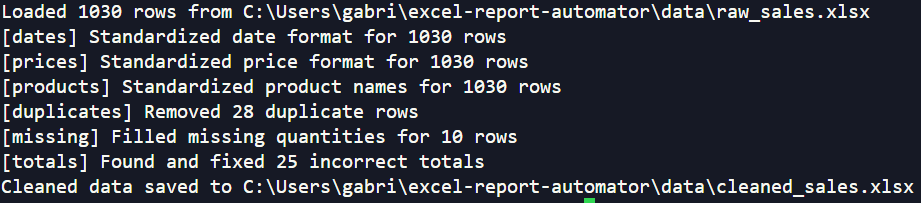
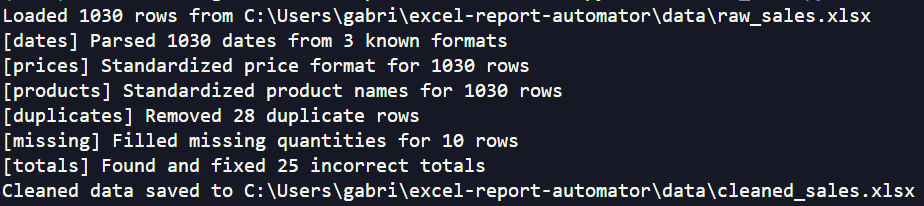
Add formatted Excel report, README and final screenshots

Changed region(s): [[0.0, 0.0, 0.9425, 0.8571], [0.0, 0.8867, 1.0, 1.0]]

diff --git a/src/build_report.py b/src/build_report.py
@@ -1,0 +1,126 @@
+import pandas as pd
+from pathlib import Path
+from openpyxl.chart import BarChart, Reference
+from openpyxl.styles import Alignment, Font, PatternFill
+from openpyxl.utils import get_column_letter
+
+DATA_DIR = Path(__file__).resolve().parent.parent / "data"
+OUTPUT_DIR = Path(__file__).resolve().parent.parent / "output"
+
+HEADER_FILL = PatternFill("solid", fgColor="1F4E78")
+HEADER_FONT = Font(color="FFFFFF", bold=True)
+CURRENCY_FMT = '"$"#,##0.00'
+
+def load_clean_data():
+    """Load the cleaned sales data (fails clearly if cleaning wasn't run)."""
+    file_path = DATA_DIR / "cleaned_sales.xlsx"
+    if not file_path.exists():
+        raise FileNotFoundError(f"Run clean_data.py first — missing: {file_path}")
+    df = pd.read_excel(file_path)
+    df["Date"] = pd.to_datetime(df["Date"])
+    return df
+
+def aggregate_by(df, column):
+    """Revenue/Units/Orders grouped by any column, best sellers first."""
+    return (df.groupby(column)
+              .agg(Revenue=("Total", "sum"),
+                   Units=("Quantity", "sum"),
+                   Orders=("Total", "count"))
+              .sort_values("Revenue", ascending=False)
+              .reset_index())
+
+def monthly_trend(df):
+    """Revenue and Orders per month, in chronological order."""
+    df = df.copy()
+    df["Month"] = df["Date"].dt.to_period("M")
+    return (df.groupby("Month")
+              .agg(Revenue=("Total", "sum"),
+                   Orders=("Total", "count"))
+              .sort_values("Month")
+              .reset_index())
+
+def compute_kpis(df):
+    """Executive summary numbers as a dict {label: value}."""
+    return {
+        "Total Revenue": round(df["Total"].sum(), 2),
+        "Total Units": df["Quantity"].sum(),
+        "Total Orders": df["Total"].count(),
+        "Average Order Value": round(df["Total"].mean(), 2),
+        "Top Product": df.groupby("Product")["Total"].sum().idxmax(),
+        "Top Region": df.groupby("Region")["Total"].sum().idxmax(),
+        "Top Seller": df.groupby("Seller")["Total"].sum().idxmax(),
+        "Period": f"{df['Date'].min().strftime('%Y-%m-%d')} to {df['Date'].max().strftime('%Y-%m-%d')}"
+    }
+
+def _format_sheet(ws, currency_cols=()):
+    """Style header row, auto-fit column widths, apply currency format."""
+    for cell in ws[1]:
+        cell.fill = HEADER_FILL
+        cell.font = HEADER_FONT
+        cell.alignment = Alignment(horizontal="center")
+    for col_idx in range(1, ws.max_column + 1):
+        letter = get_column_letter(col_idx)
+        width = max(len(str(c.value)) for c in ws[letter] if c.value is not None)
+        ws.column_dimensions[letter].width = max(12, width + 2)
+        if letter in currency_cols:
+            for cell in ws[letter][1:]:
+                cell.number_format = CURRENCY_FMT
+
+
+def build_report(df, kpis, by_product, by_region, by_seller, by_month):
+    """Write the formatted multi-sheet Excel report with an embedded chart."""
+    OUTPUT_DIR.mkdir(exist_ok=True)
+    path = OUTPUT_DIR / "sales_report.xlsx"
+    with pd.ExcelWriter(path) as writer:
+        pd.DataFrame(list(kpis.items()), columns=["KPI", "Value"]).to_excel(
+            writer, sheet_name="Summary", index=False)
+        by_product.to_excel(writer, sheet_name="By Product", index=False)
+        by_region.to_excel(writer, sheet_name="By Region", index=False)
+        by_seller.to_excel(writer, sheet_name="By Seller", index=False)
+        by_month.to_excel(writer, sheet_name="Monthly", index=False)
+
+        wb = writer.book
+        _format_sheet(wb["Summary"])
+        ws_summary = wb["Summary"]
+        MONEY_KPIS = ("Total Revenue", "Average Order Value")
+        COUNT_KPIS = ("Total Units", "Total Orders")
+        for label_cell, value_cell in ws_summary.iter_rows(min_row=2, max_col=2):
+            if label_cell.value in MONEY_KPIS:
+                value_cell.number_format = CURRENCY_FMT
+            elif label_cell.value in COUNT_KPIS:
+                value_cell.number_format = "#,##0"
+        for name in ("By Product", "By Region", "By Seller", "Monthly"):
+            _format_sheet(wb[name], currency_cols=("B",))
+
+        ws = wb["Monthly"]
+        chart = BarChart()
+        chart.title = "Monthly Revenue"
+        chart.y_axis.title = "Revenue"
+        chart.x_axis.title = "Month"
+        data = Reference(ws, min_col=2, min_row=1, max_row=ws.max_row)
+        cats = Reference(ws, min_col=1, min_row=2, max_row=ws.max_row)
+        chart.add_data(data, titles_from_data=True)
+        chart.set_categories(cats)
+        chart.width, chart.height = 24, 10
+        ws.add_chart(chart, "F2")
+    print(f"Report saved to {path}")
+
+def main():
+    df = load_clean_data()
+    kpis = compute_kpis(df)
+    by_product = aggregate_by(df, "Product")
+    by_region = aggregate_by(df, "Region")
+    by_month = monthly_trend(df)
+    by_seller = aggregate_by(df, "Seller")
+
+    for label, value in kpis.items():
+        print(f"{label}: {value}")
+    print(); print(by_product.head().to_string())
+
+    build_report(df=df, kpis=kpis,
+             by_product=by_product, by_region=by_region,
+             by_seller=by_seller, by_month=by_month)
+
+
+if __name__ == "__main__":
+    main()

diff --git a/src/clean_data.py b/src/clean_data.py
@@ -15,10 +15,16 @@ def load_data():
     
 
 def clean_dates(df):
-    """Standardize the date format to YYYY-MM-DD."""
+    """Parse dates from 3 known formats."""
     df = df.copy()
-    df["Date"] = pd.to_datetime(df["Date"], format="mixed", dayfirst=True)
-    print(f"[dates] Standardized date format for {len(df)} rows")
+    raw = df["Date"]
+    parsed = pd.to_datetime(raw, format="%d/%m/%Y", errors="coerce")
+    parsed = parsed.fillna(pd.to_datetime(raw, format="%Y-%m-%d", errors="coerce"))
+    parsed = parsed.fillna(pd.to_datetime(raw, format="%b %d, %Y", errors="coerce"))
+    if parsed.isna().any():
+        raise ValueError(f"{int(parsed.isna().sum())} dates did not match any known format")
+    df["Date"] = parsed
+    print(f"[dates] Parsed {len(df)} dates from 3 known formats")
     return df
 
 def clean_prices(df):

diff --git a/README.md b/README.md
@@ -1,2 +1,77 @@
-# excel-report-automator
-Turns messy sales spreadsheets into clean, formatted Excel reports — Python + pandas
+# Excel Report Automator
+
+Turns messy sales spreadsheets into a clean, formatted Excel report — automatically.
+
+Manual spreadsheet work is slow and error-prone: mixed date formats, prices stored
+as text, duplicated rows, missing values, wrong totals. This project shows a
+complete Python pipeline that fixes all of it and delivers an executive-ready
+Excel report with KPIs and charts.
+
+> **Note:** the input data is synthetic (generated with a fixed seed, fully
+> reproducible). Sample input/output files are committed on purpose so you can
+> inspect the before/after without running any code.
+
+## The problem — real-world messy data
+
+A 1,030-row sales spreadsheet with the classic problems:
+
+- Dates in **3 different formats** in the same column (`2026-03-19`, `19/03/2026`, `Mar 19, 2026`)
+- Prices stored as **text** (`$1,234.56`, `1234.56`, `USD 459.00`)
+- **30 duplicated rows** scattered around
+- **~40 missing cells** (seller, region, quantity)
+- **25 wrong totals** (quantity × price doesn't match)
+- Inconsistent product names (`Laptop`, `LAPTOP`, ` laptop `)
+
+![Messy input data](assets/before_messy_data.png)
+
+## The pipeline
+
+| Script | What it does |
+|---|---|
+| `src/generate_data.py` | Creates the messy demo spreadsheet (seeded — same output every run) |
+| `src/clean_data.py` | Parses dates from 3 known formats (no guessing), normalizes prices to numbers, standardizes product names, removes duplicates, **recovers missing quantities from Total ÷ Price instead of guessing**, detects and fixes wrong totals |
+| `src/build_report.py` | Aggregates by product / region / seller / month and writes a formatted multi-sheet Excel report with KPIs and an embedded chart |
+
+Every cleaning step reports what it did:
+
+![Cleaning console output](assets/console_output.png)
+
+Result: 1,030 messy rows → **1,002 clean, typed, consistent rows**
+(28 duplicates removed, 10 quantities recovered, 25 totals fixed, 0 issues left).
+
+![Cleaned data](assets/after_clean_data.png)
+
+## The deliverable
+
+A formatted `sales_report.xlsx` with five sheets — executive summary (revenue,
+average order value, top product/region/seller), breakdowns by product, region
+and seller, and a monthly trend with an embedded chart:
+
+![Final report](assets/after_report.png)
+
+## How to run
+
+```bash
+git clone https://github.com/GabrielCardozo92/excel-report-automator.git
+cd excel-report-automator
+python -m venv venv
+venv\Scripts\activate        # Windows (use source venv/bin/activate on Linux/Mac)
+pip install -r requirements.txt
+
+python src/generate_data.py   # create the messy demo file
+python src/clean_data.py      # clean it
+python src/build_report.py    # build the final report
+```
+
+Outputs: `data/cleaned_sales.xlsx` and `output/sales_report.xlsx`.
+
+## Tech
+
+Python · pandas · openpyxl · Faker
+
+## Need something like this for your business?
+
+This demo mirrors the work I do for clients: automating spreadsheet cleanup,
+report generation, web scraping and data pipelines. If your team spends hours
+on manual spreadsheet work every week, it can probably be automated — feel free
+to reach out.